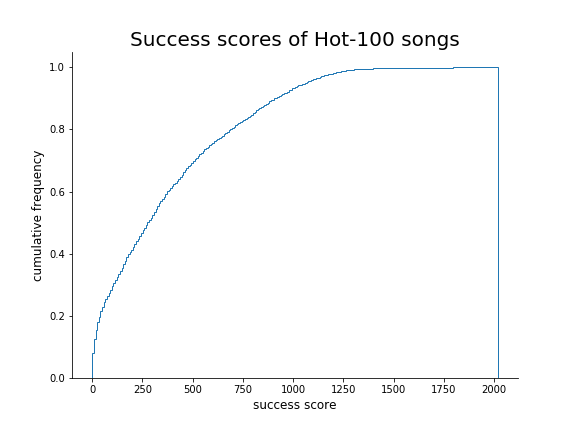
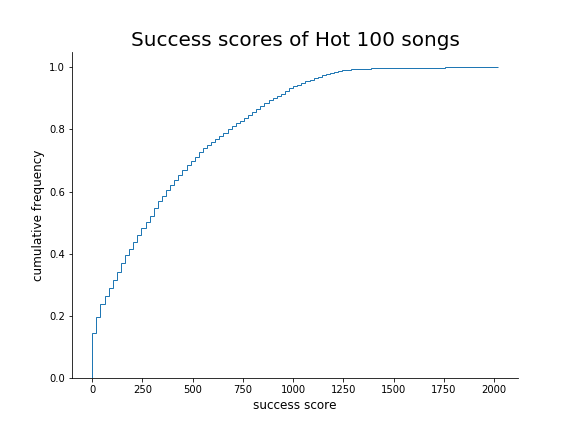
jue abr  2 00:17:15 IST 2020

diff --git a/blog/beatles-and-you.html b/blog/beatles-and-you.html
@@ -41,60 +41,57 @@
 <li>Are there any other words that appear often in Beatles songs?</li>
 <li>Does "you" lead to some measurable increase in song quality, or is the author of this book blowing hot steam out of his <a href="https://www.youtube.com/watch?v=l-ekNlk5VDM">honey pie</a>?</li>
 </ul>
-<p>This post will answer these questions. More specifically, we'll do some analysis on the lyrics of Lennon-McCartney (because who cares about Ringo), and we'll see how the use of "you" (a.k.a. the second person perspective) has affected the success of songs in the Billboard music charts.</p>
+<p>To answer these questions, we'll do some analysis on the lyrics of Lennon-McCartney (because who cares about Ringo), and we'll see how the use of "you" (a.k.a. the second person perspective) has affected the success of songs in the Billboard music charts.</p>
 <p><img src="/static/img/beatles-and-you/sad-ringo.jpeg"
-     alt="Ringo Starr with a sad expression on his face in black & white colour."
+     alt="Ringo Starr with a sad expression on his face in black & white."
      class="centered"></p>
 <h3>How many Lennon-McCartney songs are addressed to "you"?</h3>
-<p>I downloaded the lyrics of the Beatles' "core catalogue" studio albums (<a href="https://github.com/Kevinpgalligan/BeatlesAndYou/blob/master/beatles_lyrics_scraper.py">code</a>). Instrumental songs, cover songs and songs credited to Ringo Starr / George Harrison were removed manually. This left a total of 138 songs. Admittedly, it's a fair bit short of the full ~180 published by Lennon-McCartney.</p>
-<p>Analysis of the lyrics (<a href="https://github.com/Kevinpgalligan/BeatlesAndYou/blob/master/lyrics_analysis.py">code</a>) showed that <strong>29%</strong> of the songs contain "you" in the first line (or any of its related forms: "your", "yours" and "yourself"). This is somewhat short of "around half", as claimed by David Rowley, but since <strong>82%</strong> of the songs contain "you" <em>somewhere</em> in the lyrics, I'm willing to give him a pass. Lennon-McCartney did, in fact, love "you".</p>
+<p>I downloaded the lyrics of the Beatles' "core catalogue" studio albums (<a href="https://github.com/Kevinpgalligan/BeatlesAndYou/blob/master/beatles_lyrics_scraper.py">code</a>). Instrumental songs, cover songs and songs credited to Ringo Starr / George Harrison were removed manually. This left a total of 138 songs, about 3/4 of the full ~180 songs published by Lennon-McCartney.</p>
+<p>Analysis of the lyrics (<a href="https://github.com/Kevinpgalligan/BeatlesAndYou/blob/master/lyrics_analysis.py">code</a>) shows that <strong>29%</strong> of the songs contain "you" in the first line (or any of its related forms: "your", "yours" and "yourself"). This is somewhat short of "around half", as claimed by David Rowley, but since <strong>82%</strong> of the songs contain "you" <em>somewhere</em> in the lyrics, I'm willing to give him a pass. Lennon-McCartney did, in fact, love "you".</p>
 <p>Here's a comparison with some other words. Surprisingly, Lennon-McCartney's love of the second person was outstripped by their love of themselves, as <strong>86%</strong> of lyrics contain the word "I" (or "me", or "my", or "myself").</p>
 <p><img src="/static/img/beatles-and-you/word-freq-beatles.png"
      alt="Percentage of Lennon-McCartney songs that various words appear in; I 86.2%, you 81.9%, love 44.2%, day 23.9%, friend 8.7%, life 7.2%, road 5.1%, guitar 0.7%, mustard 0.7%, beatle 0.0%."
      class="centered"></p>
-<p>In 138 songs, Lennon-McCartney never once mentioned the Beatles. Not even in Glass Onion. And roads, or the things that are done in them, are almost as popular a theme as life itself.</p>
+<p>Other observations: in 138 songs, they never once mentioned the Beatles. Not even in Glass Onion. And roads, or the things that are done in them, are almost as popular a theme as life itself.</p>
 <h3>Chart success and you</h3>
 <p>Lennon-McCartney loved "you", evidently, but can we show that this aspect of their style is worth copying? Does it lead to more successful songs?</p>
-<p>To this end, I downloaded the songs in the weekly <a href="https://en.wikipedia.org/wiki/Billboard_Hot_100">Billboard Hot 100</a> from the start of 1962 until the start of 1970 (<a href="https://github.com/Kevinpgalligan/BeatlesAndYou/blob/master/chart_scrape.py">code</a>). That's the active period of the Beatles, roughly speaking, spanning 417 weeks and a total of 5681 unique songs in the charts. This means that, each week, ~86% of the songs on the Billboard Hot 100 were actually repeats from previous weeks.</p>
-<p>I then gathered the lyrics of 5184 (91.3%) of those songs (<a href="https://github.com/Kevinpgalligan/BeatlesAndYou/blob/master/chart_lyrics_scrape.py">code</a>, <a href="https://github.com/Kevinpgalligan/BeatlesAndYou/blob/master/google_lyrics_scrape.py">more code</a>, <a href="https://github.com/Kevinpgalligan/BeatlesAndYou/blob/master/general_lyrics_scrape.py">even more code</a>). The songs I left out were written by the Beatles, instrumental, or obscure enough that the lyrics were difficult to track down on the internet. Special mention goes to the song <a href="https://www.youtube.com/watch?v=p13yZAjhU0M">Wipeout</a>, by The Surfaris, which I almost removed from the dataset when I mistook its single line for a copyright notice: "Ah ha ha ha ha ha ha ha ha ha ha ha, wipe out".</p>
-<p>Analysis of the lyrics reveals that Lennon-McCartney were not at all exceptional in their love of the second person perspective: <strong>27%</strong> of the songs contain "you" in the first line, while <strong>88%</strong> contain it somewhere in the lyrics.</p>
-<p>As a measure of success, I assigned a score to each song: 100 points for a week in the #1 position on the charts, 99 points for #2, and so on. For example, a song that charted at #50, #76 and #98 over a period of 3 weeks would receive a total of (101-50)+(101-76)+(101-98) = 51+25+3 = 79 points. </p>
-<p>Here's the points distribution of all songs, as a cumulative frequency plot.</p>
+<p>To this end, I downloaded the songs in the weekly <a href="https://en.wikipedia.org/wiki/Billboard_Hot_100">Billboard Hot 100</a> from the start of 1962 until the start of 1970 (<a href="https://github.com/Kevinpgalligan/BeatlesAndYou/blob/master/chart_scrape.py">code</a>). That's the active period of the Beatles, roughly speaking, spanning 417 weeks and a total of 5681 unique songs in the charts. On average, ~86% of the songs on the Billboard Hot 100 were actually repeats from previous weeks.</p>
+<p>As a measure of success, I assigned a score to each of the songs: 100 points for a week in the #1 position on the charts, 99 points for #2, and so on. For example, a song that charted at #50, #76 and #98 over a period of 3 weeks would receive a total of (101-50)+(101-76)+(101-98) = 51+25+3 = 79 points.</p>
+<p>I then gathered the lyrics of 5184 (91.3%) of those songs (<a href="https://github.com/Kevinpgalligan/BeatlesAndYou/blob/master/chart_lyrics_scrape.py">code</a>, <a href="https://github.com/Kevinpgalligan/BeatlesAndYou/blob/master/google_lyrics_scrape.py">more code</a>, <a href="https://github.com/Kevinpgalligan/BeatlesAndYou/blob/master/general_lyrics_scrape.py">even more code</a>). The ones I left out were by the Beatles, instrumental, or had lyrics that were difficult to track down on the internet.</p>
+<p>Here are the success scores of the songs with lyrics, as a cumulative frequency plot.</p>
 <p><img src="/static/img/beatles-and-you/success-scores-cumulative.png"
      alt="Cumulative frequency graph of song success, as per the metric described above."
      class="centered"></p>
-<p>From left to right, the curve increases as the success score overtakes more and more songs. The curve starts off with a sharp rise, gobbling up songs that barely made it onto the chart (such as the slightly creepy Father Knows Best by the Radiants: "Whenever I'm in trouble I ask my dad / For his advice / ... / He said to make your girl love ya / ... / You got to get tough / And treat her wrong / And if she cries, so what / She's trying to put you to a test"). It then has a long tail of extremely successful and enduring songs, such as Everyday People by Sly &amp; The Family Stone and... and...</p>
-<p>...Wipe Out!? That's right. Wipe Out is, by our metric, the most successful song of the 60s, at a total of 2019 points. That doesn't include the Beatles, but still. The 60s were weird.</p>
-<p>Anyway, to finish our analysis, let's look at the distribution of success scores for songs that contain "you" (n=4564) versus songs that don't (n=620).</p>
+<p>From left to right, the curve increases as the success score overtakes more and more songs. The curve starts off with a sharp rise, gobbling up songs that barely made it onto the chart, such as the slightly creepy Father Knows Best by the Radiants: "Whenever I'm in trouble I ask my dad / For his advice / ... / He said to make your girl love ya / ... / You got to get tough / And treat her wrong / And if she cries, so what / She's trying to put you to a test". It then has a long tail of extremely successful and enduring songs, such as Everyday People by Sly &amp; The Family Stone and...</p>
+<p>...<a href="https://www.youtube.com/watch?v=p13yZAjhU0M">Wipe Out</a>!? That's right. Wipe Out is, by our metric, and among the songs we have selected, the most successful song of the 60s, at a total of 2019 points. And its 1-line lyrics are a mocking rejection of the second person perspective: "Ah ha ha ha ha ha ha ha ha ha ha ha, wipe out!". The 60s certainly were wild.</p>
+<p>Analysing the lyrics of all the songs, we see that Lennon-McCartney were not at all exceptional in their love of the second person perspective. <strong>27%</strong> of the songs contain "you" in the first line, while <strong>88%</strong> contain "you" somewhere in the lyrics.</p>
+<p>Finally, to see if there's a relationship between use of the second person perspective and chart success, let's look at the distribution of success scores for songs that contain "you" (n=4564) versus songs that don't (n=620).</p>
 <p><img src="/static/img/beatles-and-you/you-vs-notyou-boxplot.png"
      alt="box plot comparing success scores of songs containing you vs songs that don't; the distributions are similar but with the 'not you' songs having a slightly higher median / middle value."
      class="centered"></p>
-<p>The coloured boxes show the range of success scores you would be left with if you dropped the 25% least successful and 25% most successful songs. The orange line is the median success score, which is better than exactly 50% of songs. The whiskers extending from the boxes represent the full range of the success scores -- except for outliers, which are represented by circles. Wipe Out sits triumphantly on top of the whole pile of outliers.</p>
-<p>As it turns out, songs that don't contain "you" have a higher median success score by 13% (278 vs 316).</p>
+<p>The coloured boxes show the range of success scores you would be left with if you dropped the 25% least successful and 25% most successful songs. The horizontal dark blue line is the median success score, which is better than exactly 50% of songs. The whiskers extending from the boxes represent the full range of the success scores -- except for outliers, which are represented by circles. Wipe Out sits triumphantly above them all.</p>
+<p>As it turns out, songs that don't contain "you" have a higher median success score by 13% (278 vs 316), contrary to what we would expect if we believed David Rowley's songwriting tip.</p>
 <p>Here's the distribution of songs that contain "you" in the first line (n=1412) versus those that don't (n=3772).</p>
 <p><img src="/static/img/beatles-and-you/youfirstline-vs-notyoufirstline-boxplot.png"
      alt="box plot comparing success scores of songs containing you in the first line vs songs that don't; the distributions are similar, but the songs with you in the first line have a slightly higher median."
      class="centered"></p>
-<p>This time, the trend is reversed. The median of songs with "you" in the first line and the median of those without sit at 302 and 276, respectively. That's a 9% difference.</p>
+<p>Songs with "you" in the first line actually have a 9% higher median success score than those without (302 vs 276). It seems that there are a number of lower-scoring "you" songs that don't have "you" in the first line, which drag down the median of whichever category they're in.</p>
 <h3>Conclusions</h3>
-<p>Use of the second person perspective was overwhelmingly common in the 60s. It wasn't a unique feature of Lennon-McCartney's songwriting. As such, a revised edition of David Rowley's songwriting tip might go:</p>
-<blockquote>
-<p>Around 82% of all Lennon-McCartney lyrics contain the magic songwriting words 'you' or 'your'. This was typical of most songs in the 60s and there is no quantifiable justification for why you should mimic that.</p>
-</blockquote>
-<p>In fact, our analysis of chart success has shown that use of "you" may, if anything, have <em>reduced</em> the success of 60s songs, since the median success score of songs was higher if they <em>didn't</em> use the second person perspective anywhere in their lyrics.</p>
-<p>As a curious reversal of that, songs with "you" in the first line turned out to have a higher median score than those without. This could suggest that there was a cohort of mediocre songwriters in the 60s who didn't have the imagination to use a grammatical person other than the second person, who dragged down the median success score of whichever category they were in. And they tended not to put "you" in the first line of their songs.</p>
-<h3>Other stuff</h3>
-<p>The code from this article can be found <a href="https://github.com/Kevinpgalligan/BeatlesAndYou">here</a>.</p>
-<p>And here are some fun articles based on Billboard Hot 100 song lyrics that I came across during my research:</p>
+<p>We have seen that the second person perspective was overwhelmingly common in 60s song lyrics. More than Lennon-McCartney secret sauce, it was standard songwriting practice. Furthermore, our overanalysis hasn't shown use of "you" to have a correlation with chart success. Considering that it was used in almost 90% of chart songs, however, there has to be something of secret sauce about it. Chart-hitting 60s songwriters must have known what they were doing, right?</p>
+<p>...<em>right?</em></p>
+<h3>Fun bonus reads</h3>
 <ul>
-<li><a href="https://www.kaylinpavlik.com/50-years-of-pop-music/">50 Years of Pop Music</a> (cool data analysis and visualisation)</li>
+<li><a href="https://www.kaylinpavlik.com/50-years-of-pop-music/">50 Years of Pop Music</a> (cool data analysis and visualisation of song lyrics)</li>
 <li><a href="https://aeon.co/ideas/why-are-pop-songs-getting-sadder-than-they-used-to-be">Why are pop songs getting sadder than they used to be?</a> (sentiment analysis)</li>
 <li><a href="https://medium.com/@latenightfroyo/the-6-types-of-billboard-hits-e0cb2987abf">The 6 Types of Billboard Hits</a> (song clustering)</li>
+<li><a href="https://www.npr.org/sections/allsongs/2013/05/29/187168874/the-good-listener-whats-more-important-lyrics-or-music?t=1585780553905">The Good Listener: What's More Important, Lyrics Or Music?</a> (relevant NPR article)</li>
 </ul>
+<h3>The code</h3>
+<p><a href="https://github.com/Kevinpgalligan/BeatlesAndYou">It's all here</a>.</p>
 <hr>
-<p><i>Post Date: 2020-03-28</i></p>
+<p><i>Post Date: 2020-04-01</i></p>
 <a href="/blog.html">Back to blog</a>
- <p>No previous article.</p>
+ <p>Previous article: <a href="/blog/interval-length.html">Counting the number of days until your birthday and why it&#39;s a useful programming trick</a></p>
 
  <p>No next article.</p>
 

diff --git a/blog.html b/blog.html
@@ -27,8 +27,9 @@
     </header>
 
 <h2>Blog Posts</h2>
-<p>6 posts.</p>
+<p>7 posts.</p>
 <ul>
+    <li class="spaced-li">2020-04-01 <a href="/blog/beatles-and-you.html">Did the Beatles love &#34;you&#34;?</a></li>
     <li class="spaced-li">2020-02-01 <a href="/blog/interval-length.html">Counting the number of days until your birthday and why it&#39;s a useful programming trick</a></li>
     <li class="spaced-li">2020-01-28 <a href="/blog/mona-lisa-gol.html">Finding Mona Lisa in the Game of Life</a></li>
     <li class="spaced-li">2019-11-22 <a href="/blog/rgb-average.html">Random RGB values that average to N; or, Pointlessness and Probability</a></li>

diff --git a/blog/drafts.html b/blog/drafts.html
@@ -27,7 +27,6 @@
 
 <h2>Draft posts</h2>
 <ul>
-    <li class="blog-post-list">2020-03-28 <a href="/blog/beatles-and-you.html">Did the Beatles love &#34;you&#34;?</a></li>
     <li class="blog-post-list">2019-12-17 <a href="/blog/organs-passwords-wills.html">Organs, passwords and wills: sh*t to sort out before you die</a></li>
     
 </ul>

diff --git a/index.html b/index.html
@@ -26,7 +26,7 @@
     </header>
 
 <h3>Hello there</h3>
-<p>This is the soapbox of Kevin Galligan. He reserves the right to stand on it and shout at you.</p>
+<p>This is the soapbox of Kevin Galligan. He reserves the right to stand on it.</p>
 
 <div data-nosnippet>
 <p>Contact at <i>galligankevinp@gmail.com</i>.</p>

diff --git a/blog/interval-length.html b/blog/interval-length.html
@@ -73,7 +73,7 @@
 <a href="/blog.html">Back to blog</a>
  <p>Previous article: <a href="/blog/mona-lisa-gol.html">Finding Mona Lisa in the Game of Life</a></p>
 
- <p>No next article.</p>
+ <p>Next article: <a href="/blog/beatles-and-you.html">Did the Beatles love &#34;you&#34;?</a></p>
 
 
 </body>
